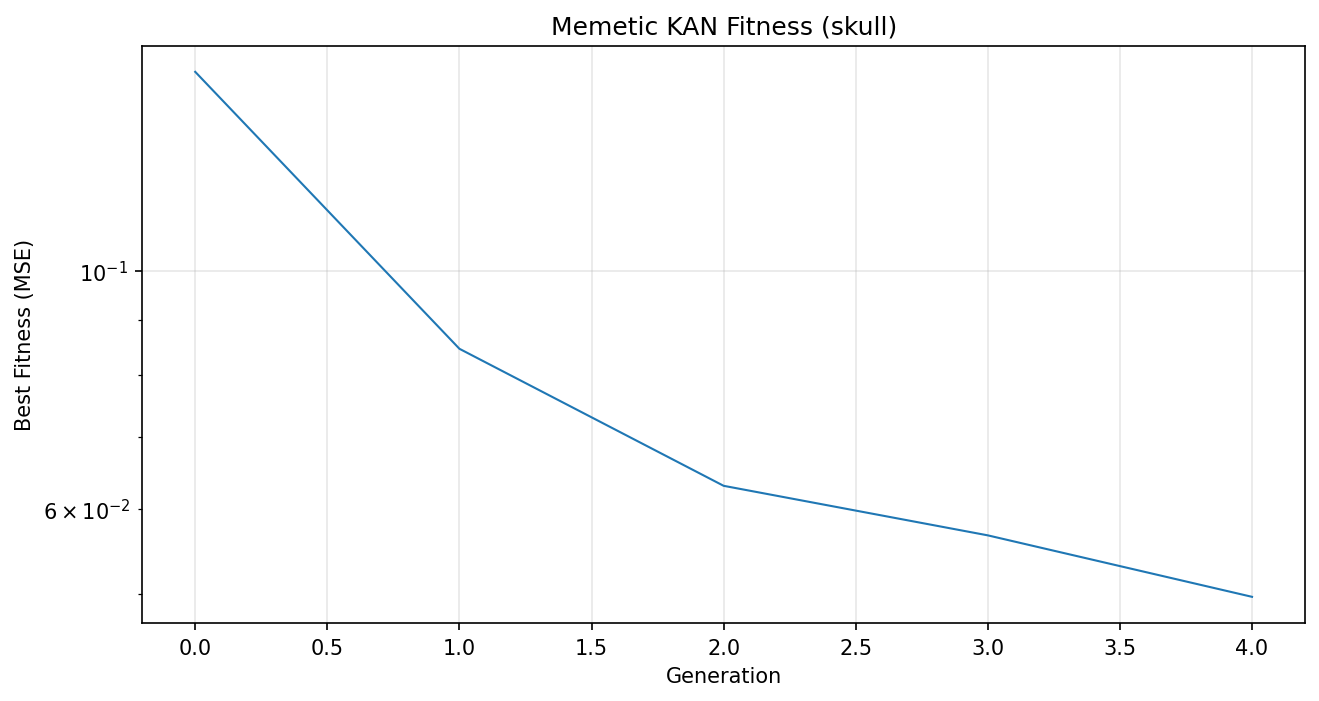
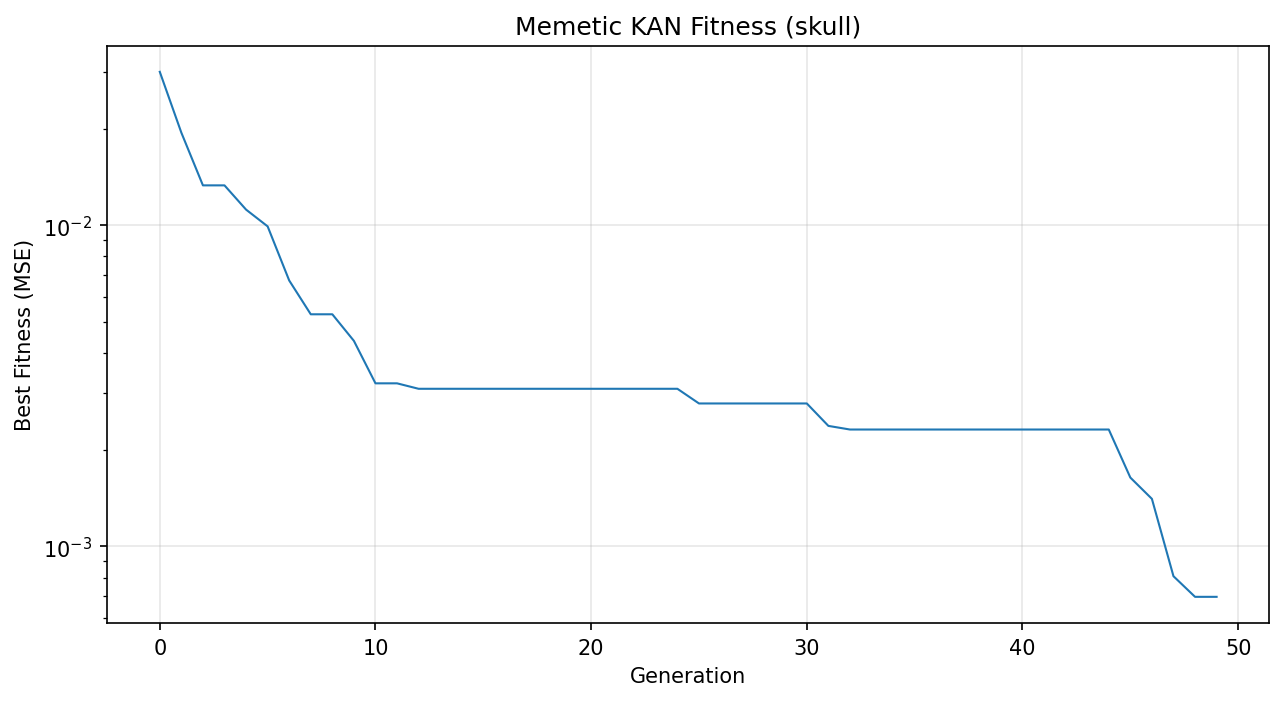
Fix 5 bugs in memetic KAN: ES now preserves orthogonal base_weight
1. ES only perturbs spline params (coeffs+weights), excluding base_weight
   via new exclude_base_weight option on FlattenKANParameters
2. Fresh Adam optimizer each generation to avoid stale momentum after ES
3. Fix docstring claiming grid [-3,3] when actual grid is [0,1] + sigmoid
4. ES fitness gating: revert if ES update worsens fitness before SGD
5. Normalized fitness differences in ES gradient for scale invariance

Skull MSE: 0.000697 (50 generations, previously non-functional)

diff --git a/src/memetic_kan.py b/src/memetic_kan.py
@@ -9,8 +9,9 @@ KAN parameters due to crossover breaking co-adapted base_weight/coeffs.
 Core algorithm per generation:
 1. Maintain a single "center" network (the current best)
 2. Sample pop_size random perturbation vectors with antithetic pairs
-3. Estimate gradient from fitness differences: g = sum(f+ - f-) * eps / (2*N*sigma)
-4. Update center parameters using ES gradient
+   (only perturbing spline coeffs and weights, NOT base_weight)
+3. Estimate gradient from normalized fitness differences
+4. Update spline parameters using ES gradient (if it improves fitness)
 5. Run K steps of SGD on center for local refinement
 """
 
@@ -27,6 +28,8 @@ class MemeticKAN_CPPN:
 
     Maintains a single center network and uses Natural Evolution Strategy
     (antithetic sampling) for global search, with SGD for local refinement.
+    ES only perturbs spline parameters (coeffs + weights), preserving the
+    orthogonal base_weight that prevents signal collapse in deep networks.
 
     Args:
         pop_size: Number of perturbation pairs per generation.
@@ -52,6 +55,10 @@ class MemeticKAN_CPPN:
 
         # Single center network
         self.center = KAN_CPPN(n_layers, hidden_size, n_inputs, grid_size).to(self.device)
+
+        # Bug 1 fix: ES flattener excludes base_weight to preserve orthogonality
+        self.es_flattener = FlattenKANParameters(self.center, exclude_base_weight=True)
+        # Full flattener for external use (weight sweeps, etc.)
         self.flattener = FlattenKANParameters(self.center)
 
         # Best fitness tracking
@@ -62,10 +69,11 @@ class MemeticKAN_CPPN:
         """Main NES-Memetic training loop.
 
         Each generation:
-        1. Sample perturbation vectors and evaluate antithetic pairs.
-        2. Compute ES gradient from fitness differences.
-        3. Update center parameters with ES gradient.
-        4. Run K steps of SGD on center for local refinement.
+        1. Sample perturbation vectors and evaluate antithetic pairs
+           (only perturbing spline coeffs + weights, not base_weight).
+        2. Compute ES gradient from normalized fitness differences.
+        3. Update spline parameters with ES gradient (only if it improves fitness).
+        4. Reset Adam state and run K steps of SGD for local refinement.
 
         Args:
             target_img: Target image tensor of shape (H, W, 3).
@@ -81,33 +89,36 @@ class MemeticKAN_CPPN:
         img_size = target_img.shape[0]
         fitness_history = []
 
-        # Persistent SGD optimizer (preserves momentum across generations)
-        sgd_optimizer = torch.optim.Adam(self.center.parameters(), lr=lr)
-
         for gen in range(n_generations):
-            # === Phase 1: ES gradient estimation ===
-            center_params = self.flattener.flatten().detach()
+            # === Phase 1: ES gradient estimation (spline params only) ===
+            center_params = self.es_flattener.flatten().detach()
             n_params = center_params.numel()
 
             epsilons = []
             fitness_diffs = []
 
             with torch.no_grad():
+                # Evaluate pre-ES fitness for gating (Bug 4 fix)
+                pre_es_img = self.center.generate_image(img_size=img_size)
+                pre_es_fitness = torch.mean((pre_es_img - target_img) ** 2).item()
+
                 for i in range(self.pop_size):
                     eps = torch.randn(n_params, device=self.device)
                     epsilons.append(eps)
 
                     # Positive perturbation
-                    self.flattener.unflatten(center_params + self.sigma * eps)
+                    self.es_flattener.unflatten(center_params + self.sigma * eps)
                     img_pos = self.center.generate_image(img_size=img_size)
                     f_pos = torch.mean((img_pos - target_img) ** 2).item()
 
                     # Negative perturbation (antithetic)
-                    self.flattener.unflatten(center_params - self.sigma * eps)
+                    self.es_flattener.unflatten(center_params - self.sigma * eps)
                     img_neg = self.center.generate_image(img_size=img_size)
                     f_neg = torch.mean((img_neg - target_img) ** 2).item()
 
-                    fitness_diffs.append(f_pos - f_neg)
+                    # Bug 5 fix: normalize fitness differences for stability
+                    denom = abs(f_pos) + abs(f_neg) + 1e-8
+                    fitness_diffs.append((f_pos - f_neg) / denom)
 
             # Compute ES gradient
             es_grad = torch.zeros(n_params, device=self.device)
@@ -115,11 +126,24 @@ class MemeticKAN_CPPN:
                 es_grad += fd * eps
             es_grad /= (2 * self.pop_size * self.sigma)
 
-            # Apply ES update
-            new_params = center_params - self.lr_es * es_grad
-            self.flattener.unflatten(new_params)
+            # Apply ES update to candidate
+            candidate_params = center_params - self.lr_es * es_grad
+
+            # Bug 4 fix: only accept ES update if it improves fitness
+            with torch.no_grad():
+                self.es_flattener.unflatten(candidate_params)
+                post_es_img = self.center.generate_image(img_size=img_size)
+                post_es_fitness = torch.mean((post_es_img - target_img) ** 2).item()
+
+                if post_es_fitness >= pre_es_fitness:
+                    # ES made things worse — revert
+                    self.es_flattener.unflatten(center_params)
 
             # === Phase 2: SGD local refinement ===
+            # Bug 2 fix: fresh optimizer each generation so state matches
+            # current parameters (ES may have just moved them)
+            sgd_optimizer = torch.optim.Adam(self.center.parameters(), lr=lr)
+
             self.center.train()
             for step in range(sgd_steps_per_gen):
                 sgd_optimizer.zero_grad()

diff --git a/src/kan.py b/src/kan.py
@@ -18,9 +18,9 @@ from .color import hsv2rgb
 class KANCPPNLayer(nn.Module):
     """A KAN layer designed for CPPN use.
 
-    Uses vectorized spline interpolation with tanh normalization for stability.
-    No bias, matching the original CPPN design. Grid spans [-3, 3] to handle
-    the wide range of intermediate values in CPPNs.
+    Uses vectorized spline interpolation with sigmoid normalization mapping
+    inputs to [0, 1] for grid lookup. No bias, matching the original CPPN
+    design. Grid spans [0, 1] to match sigmoid output range.
 
     Args:
         in_features: Number of input features.
@@ -194,20 +194,25 @@ class KAN_CPPN(nn.Module):
 class FlattenKANParameters:
     """Flatten and unflatten KAN-CPPN parameters for evolutionary algorithms.
 
-    Provides a 1D vector interface over all learnable parameters (coeffs and
-    weights) of a KAN_CPPN, matching the FlattenCPPNParameters interface from
-    the reference implementation.
+    Provides a 1D vector interface over learnable parameters of a KAN_CPPN,
+    matching the FlattenCPPNParameters interface from the reference implementation.
 
     Args:
         cppn: A KAN_CPPN instance.
+        exclude_base_weight: If True, exclude base_weight parameters from the
+            flat vector. Used by ES to avoid corrupting the orthogonal residual
+            path that prevents signal collapse in deep networks.
     """
 
-    def __init__(self, cppn):
+    def __init__(self, cppn, exclude_base_weight=False):
         self.cppn = cppn
+        self.exclude_base_weight = exclude_base_weight
         self._param_shapes = []
         self._param_names = []
         total = 0
         for name, param in cppn.named_parameters():
+            if exclude_base_weight and 'base_weight' in name:
+                continue
             self._param_names.append(name)
             self._param_shapes.append(param.shape)
             total += param.numel()
@@ -219,13 +224,15 @@ class FlattenKANParameters:
         return self._n_params
 
     def flatten(self):
-        """Flatten all learnable parameters to a 1D vector.
+        """Flatten learnable parameters to a 1D vector.
 
         Returns:
-            1D tensor of all parameters concatenated.
+            1D tensor of all included parameters concatenated.
         """
         params = []
         for name, param in self.cppn.named_parameters():
+            if self.exclude_base_weight and 'base_weight' in name:
+                continue
             params.append(param.data.reshape(-1))
         return torch.cat(params)
 
@@ -237,6 +244,8 @@ class FlattenKANParameters:
         """
         offset = 0
         for name, param in self.cppn.named_parameters():
+            if self.exclude_base_weight and 'base_weight' in name:
+                continue
             n = param.numel()
             param.data.copy_(flat_params[offset:offset + n].reshape(param.shape))
             offset += n
